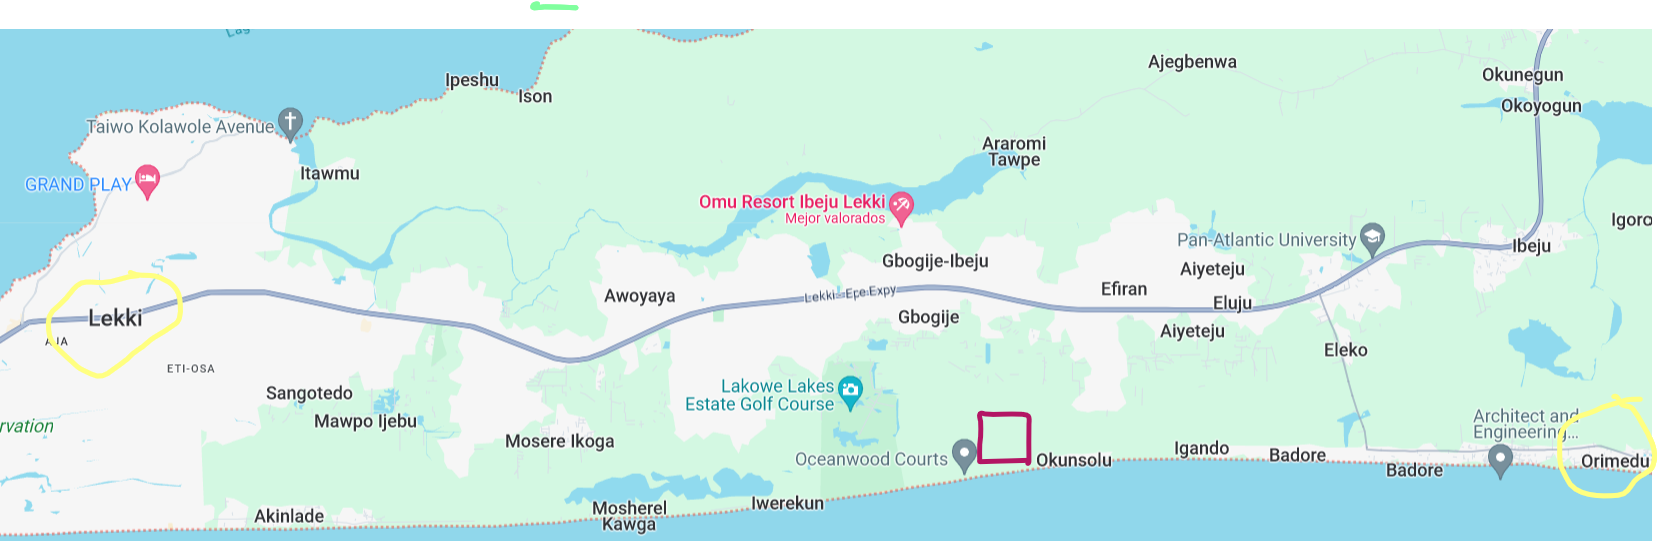
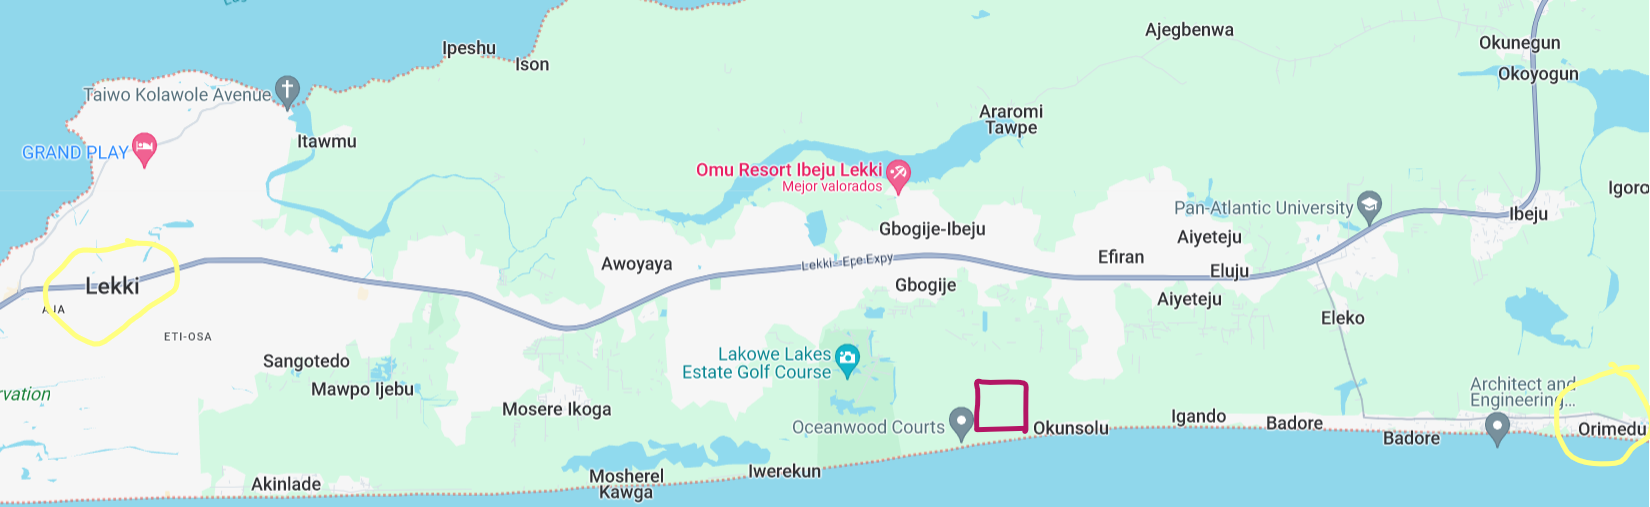
map

diff --git a/plan.html b/plan.html
@@ -25,7 +25,6 @@
         <div class="gallery-scroll">
           <div class="gallery">
             <div class="item">
-                <iframe src="https://www.google.com/maps/embed?pb=!1m14!1m12!1m3!1d9938.075012041983!2d3.771530149180054!3d6.439885171101918!2m3!1f0!2f0!3f0!3m2!1i1024!2i768!4f13.1!5e1!3m2!1ses!2ses!4v1706211660311!5m2!1ses!2ses" width="600" height="450" style="border:0;" allowfullscreen="" loading="lazy" referrerpolicy="no-referrer-when-downgrade"></iframe>            
             </div>
             <div class="item">
               <img src="Imatges/cuadrant_colors.png" alt="Image" />
@@ -33,6 +32,8 @@
           </div>
         </div>
       </div>
+      <iframe style="width:90%;margin-left: 5%;margin-top: 50px" src="https://www.google.com/maps/embed?pb=!1m14!1m12!1m3!1d9938.075012041983!2d3.771530149180054!3d6.439885171101918!2m3!1f0!2f0!3f0!3m2!1i1024!2i768!4f13.1!5e1!3m2!1ses!2ses!4v1706211660311!5m2!1ses!2ses" width="600" height="450" style="border:0;" allowfullscreen="" loading="lazy" referrerpolicy="no-referrer-when-downgrade"></iframe>            
+
       <div class="posters-container">
         <div class="poster" id="titA">
             <h2><u>Perquè aquesta ubicacio?</u></h2><br>
